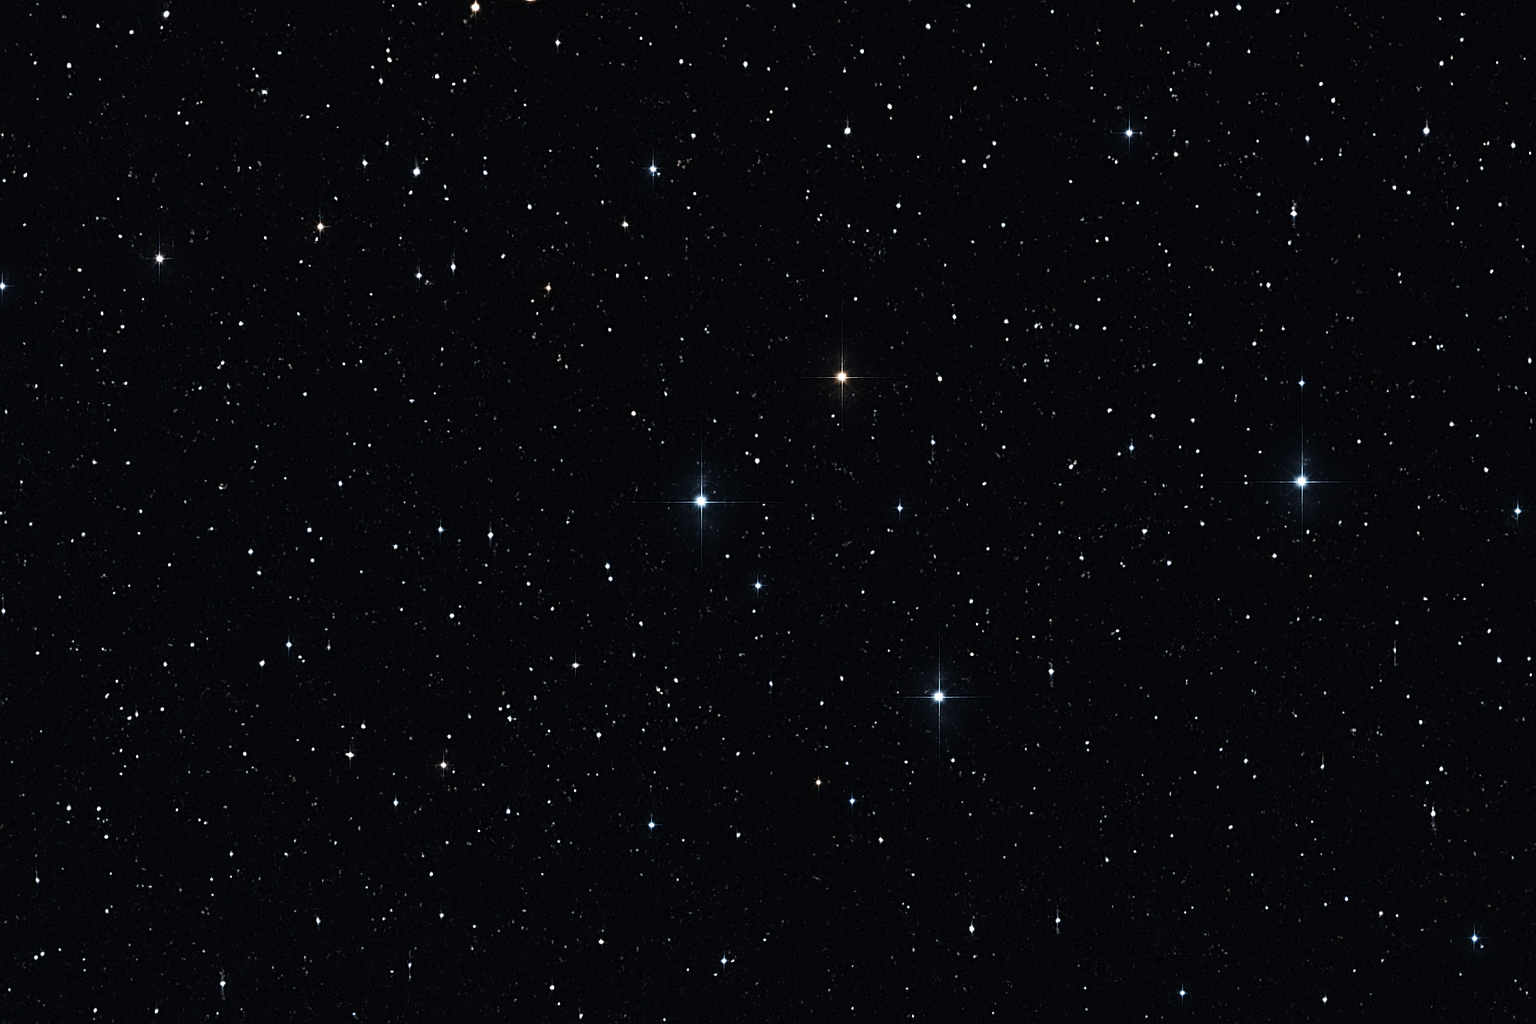
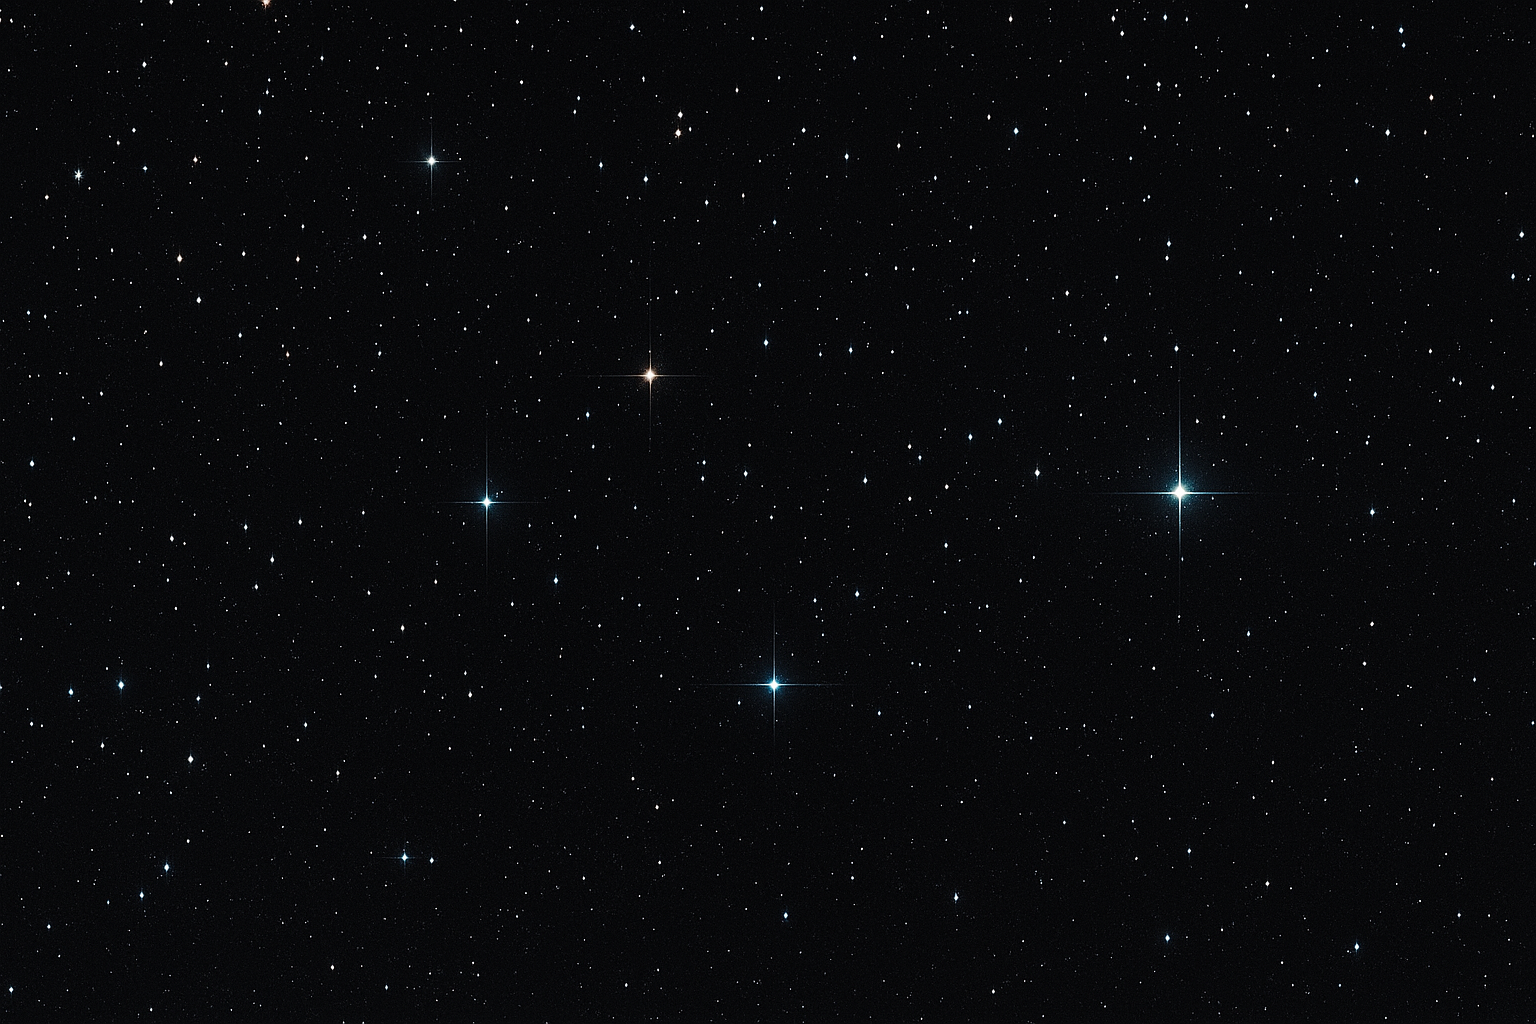
0.24.1: Star night cover adjustment | Image adjustment

diff --git a/public/css/starry-background.css b/public/css/starry-background.css
@@ -1,6 +1,16 @@
 /* Starry background styling for header and footer */
 
 /* Common styles for starry background */
+
+/* Prevent image flashing during page transitions */
+.starry-background::before {
+    opacity: 0;
+    transition: opacity 0.3s ease-in-out;
+}
+
+body.bg-loaded .starry-background::before {
+    opacity: 0.7; /* Match the opacity value from below */
+}
 .starry-background {
     position: relative;
     z-index: 0; /* Ensure the background is behind the content */
@@ -15,13 +25,14 @@
     width: 100%;
     height: 100%;
     background-image: url('../media/night_stars.png');
-    background-size: 100% 100%; /* Ensure image fits exactly within the container */
+    background-size: cover; /* Maintain aspect ratio while covering the container */
     background-position: center;
     background-repeat: no-repeat;
-    opacity: 0.7; /* Adjust opacity as needed */
+    /* opacity controlled by the bg-loaded class */
     z-index: -1; /* Place behind the content */
     pointer-events: none; /* Allow clicks to pass through */
     max-height: 100%; /* Ensure it doesn't exceed container height */
+    will-change: transform; /* Optimize for animations and transitions */
 }
 
 /* Content shadow effect */

diff --git a/resources/views/layouts/app.blade.php b/resources/views/layouts/app.blade.php
@@ -61,6 +61,9 @@
     </footer>
 
 </div>
+
+<!-- Import JavaScript files -->
+<script src="{{ asset('js/starry-background.js') }}"></script>
 </body>
 
 </html>
